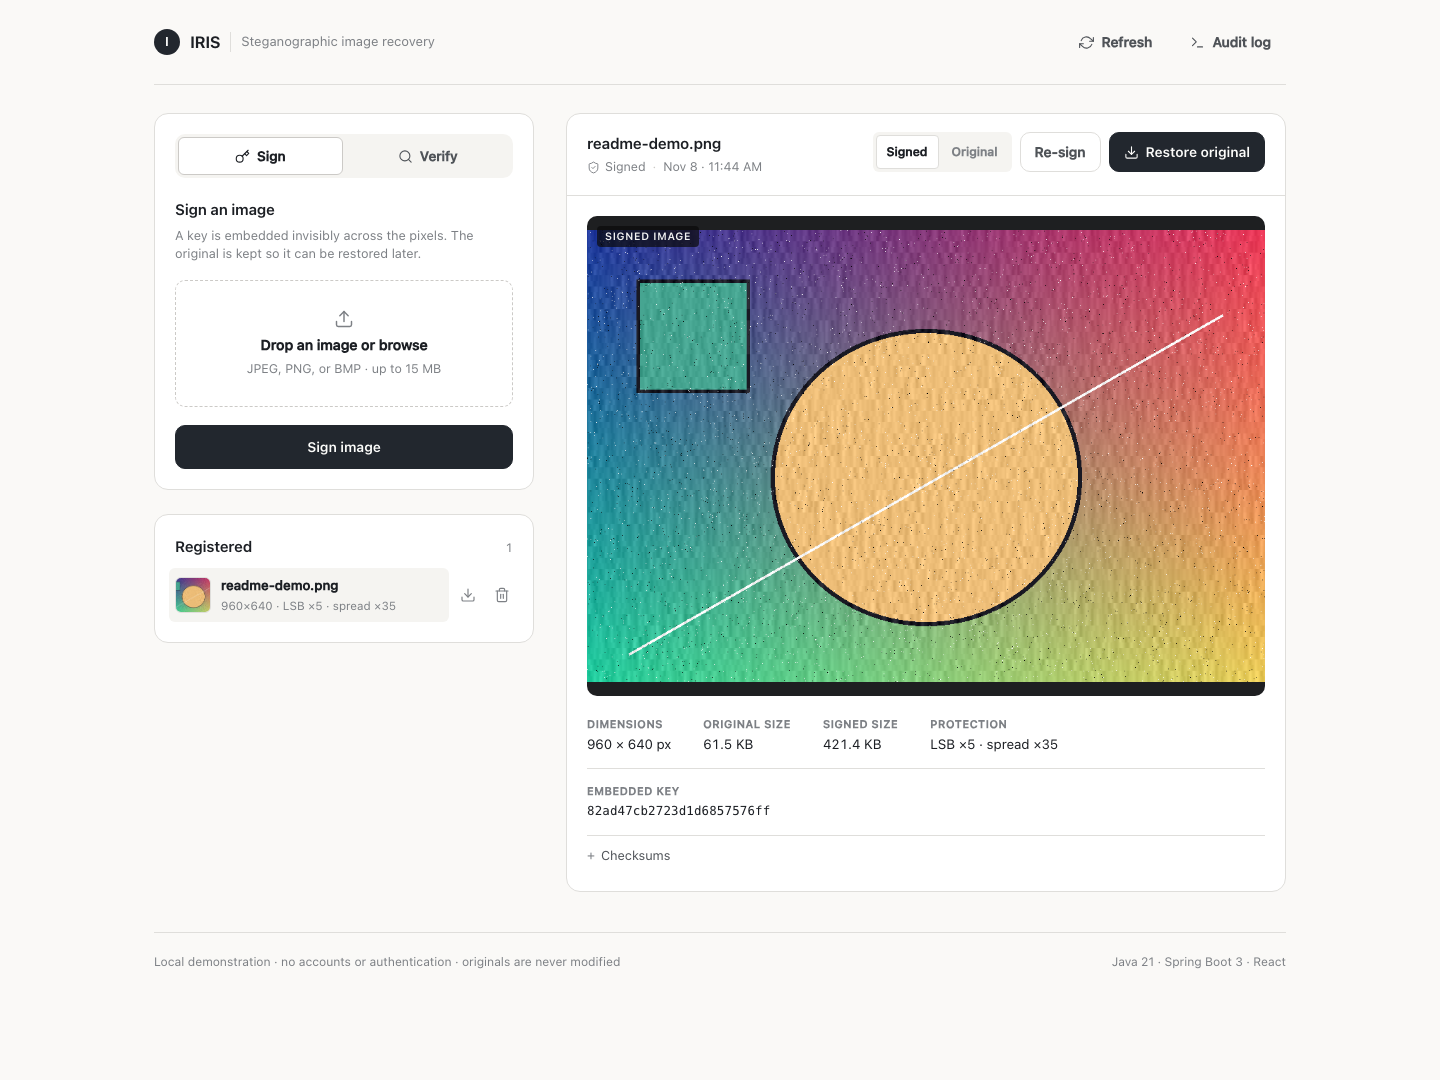
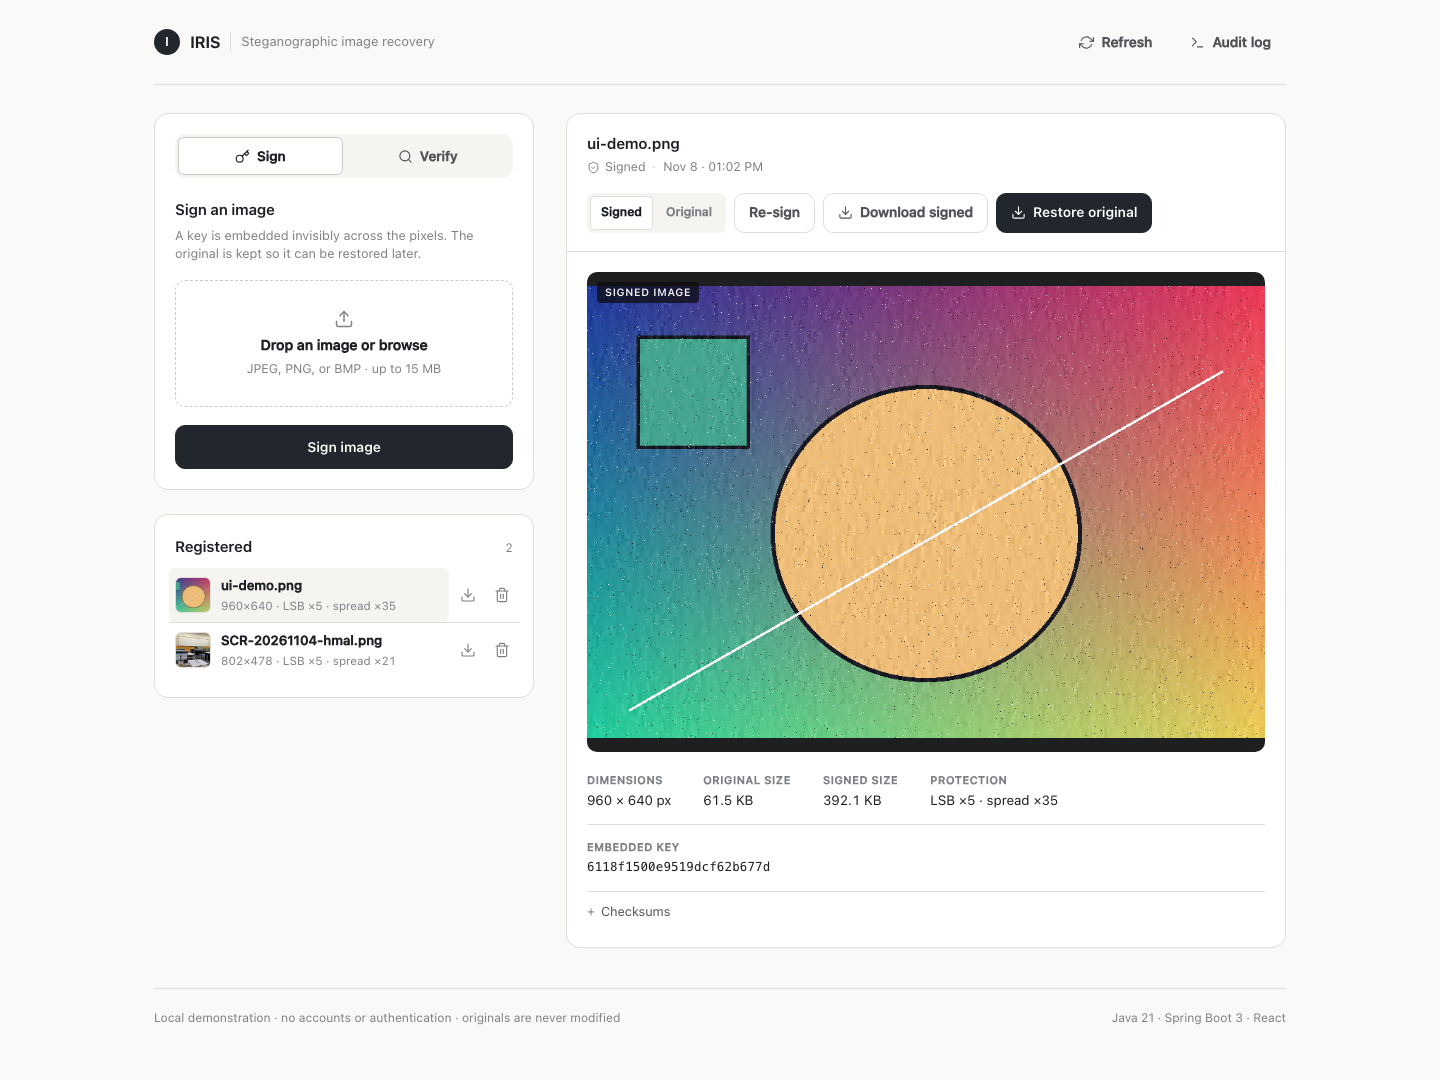
Improve signed-image UX and watermark visibility
- Add a signed-image download endpoint and UI button
- Reset the upload panel when switching between Sign and Verify
- Preserve source pixels instead of color-converting grayscale images
- Reduce V3 watermark strength and shift signal to the fine channel
- Add the signed-download API test and refresh the screenshot

diff --git a/frontend/src/components/ActionPanel.tsx b/frontend/src/components/ActionPanel.tsx
@@ -1,4 +1,4 @@
-import React, { useRef, useState } from 'react';
+import React, { useEffect, useRef, useState } from 'react';
 import { UploadIcon, AlertCircleIcon, KeyIcon, SearchIcon } from './icons';
 import './ActionPanel.css';
 
@@ -26,6 +26,19 @@ export const ActionPanel: React.FC<Props> = ({ mode, onModeChange, onSign, onVer
   const fileInputRef = useRef<HTMLInputElement>(null);
 
   const isSign = mode === 'sign';
+
+  useEffect(() => {
+    setSelectedFile(null);
+    setIsDragOver(false);
+    setErrorMsg(null);
+    setPreviewUrl(null);
+  }, [mode]);
+
+  useEffect(() => () => {
+    if (previewUrl) {
+      URL.revokeObjectURL(previewUrl);
+    }
+  }, [previewUrl]);
 
   const validateAndSetFile = (file: File) => {
     setErrorMsg(null);

diff --git a/frontend/src/components/RecordViewer.tsx b/frontend/src/components/RecordViewer.tsx
@@ -77,6 +77,11 @@ export const RecordViewer: React.FC<Props> = ({ record, onResign, isResigning })
             {isResigning ? 'Re-signing…' : 'Re-sign'}
           </button>
 
+          <a className="btn" href={record.signedDownloadUrl} download>
+            <DownloadIcon size={15} />
+            <span>Download signed</span>
+          </a>
+
           <a className="btn btn-primary" href={record.downloadUrl} download>
             <DownloadIcon size={15} />
             <span>Restore original</span>

diff --git a/frontend/src/types.ts b/frontend/src/types.ts
@@ -20,6 +20,7 @@ export interface ImageRecordDto {
   originalUrl: string;
   signedUrl: string;
   downloadUrl: string;
+  signedDownloadUrl: string;
 }
 
 export interface VerificationResponseDto {

diff --git a/backend/src/main/java/com/iris/stego/SteganographyV3.java b/backend/src/main/java/com/iris/stego/SteganographyV3.java
@@ -1,6 +1,5 @@
 package com.iris.stego;
 
-import java.awt.Graphics2D;
 import java.awt.image.BufferedImage;
 import java.util.ArrayList;
 import java.util.Arrays;
@@ -17,8 +16,8 @@ public final class SteganographyV3 {
     public static final int MIN_ROBUST_PIXELS = CODE_BITS * 8 * 8;
     private static final boolean[] CODE_SYNC = ConvolutionalCode.encode(SYNC, false);
     private static final int STRIDE = 37;
-    private static final Grid COARSE = new Grid(16, 18, 20);
-    private static final Grid FINE = new Grid(8, 6, 10);
+    private static final Grid COARSE = new Grid(16, 8, 10, 34);
+    private static final Grid FINE = new Grid(8, 10, 14, 14);
 
     private SteganographyV3() {}
     public record Extracted(byte[] token) {}
@@ -29,11 +28,7 @@ public final class SteganographyV3 {
         if (token == null || token.length != TOKEN_BYTES) {
             throw new IllegalArgumentException("Watermark token must be 12 bytes");
         }
-        BufferedImage image = new BufferedImage(source.getWidth(), source.getHeight(),
-                source.getColorModel().hasAlpha() ? BufferedImage.TYPE_INT_ARGB : BufferedImage.TYPE_INT_RGB);
-        Graphics2D graphics = image.createGraphics();
-        graphics.drawImage(source, 0, 0, null);
-        graphics.dispose();
+        BufferedImage image = copy(source);
         byte[] payload = new byte[PAYLOAD_BYTES];
         System.arraycopy(SYNC, 0, payload, 0, SYNC.length);
         System.arraycopy(token, 0, payload, SYNC.length, TOKEN_BYTES);
@@ -109,10 +104,12 @@ public final class SteganographyV3 {
         final int block;
         final double strength;
         final double maxStep;
-        Grid(int block, double strength, double maxStep) {
+        final double edgeLimit;
+        Grid(int block, double strength, double maxStep, double edgeLimit) {
             this.block = block;
             this.strength = strength;
             this.maxStep = maxStep;
+            this.edgeLimit = edgeLimit;
         }
 
         int embed(BufferedImage image, boolean[] coded) {
@@ -132,17 +129,18 @@ public final class SteganographyV3 {
                     }
                     double difference = (left - right) / (block * block / 2.0);
                     // Strong natural edges are erasures, not targets for large visible changes.
-                    if (Math.abs(difference) > strength * 2) continue;
+                    if (Math.abs(difference) > edgeLimit) continue;
                     boolean one = coded[(col + STRIDE * row) % coded.length];
                     double mean = sum / (block * block);
                     double texture = Math.sqrt(Math.max(0, squares / (block * block) - mean * mean));
-                    double adapted = 4 + (strength - 4) * Math.min(1, texture / 20);
+                    double adapted = 1.5 + (strength - 1.5) * Math.min(1, texture / 24);
                     double target = one ? adapted : -adapted;
                     if ((one && difference >= target) || (!one && difference <= target)) continue;
                     double amplitude = Math.max(-maxStep, Math.min(maxStep, (target - difference) * Math.PI / 4));
                     for (int dx = 0; dx < block; dx++) {
                         int offset = (int) Math.round(amplitude * Math.sin(2 * Math.PI * dx / block));
                         for (int dy = 0; dy < block; dy++) {
+                            if (offset == 0) continue;
                             int rgb = image.getRGB(x + dx, y + dy);
                             int r = clamp(((rgb >> 16) & 255) + offset);
                             int g = clamp(((rgb >> 8) & 255) + offset);
@@ -200,7 +198,7 @@ public final class SteganographyV3 {
             for (int row = 0; row < rows; row += stepY) {
                 for (int col = 0; col < cols; col += stepX) {
                     double difference = integral.delta(x + col * block, y + row * block, block);
-                    if (Math.abs(difference) > strength * 2.5) continue;
+                    if (Math.abs(difference) > edgeLimit) continue;
                     votes[(col + STRIDE * row) % CODE_BITS] += Math.max(-strength, Math.min(strength, difference));
                 }
             }
@@ -209,6 +207,17 @@ public final class SteganographyV3 {
     }
 
     private static int clamp(int value) { return Math.max(0, Math.min(255, value)); }
+
+    private static BufferedImage copy(BufferedImage source) {
+        int type = source.getColorModel().hasAlpha() ? BufferedImage.TYPE_INT_ARGB : BufferedImage.TYPE_INT_RGB;
+        BufferedImage copy = new BufferedImage(source.getWidth(), source.getHeight(), type);
+        for (int y = 0; y < source.getHeight(); y++) {
+            for (int x = 0; x < source.getWidth(); x++) {
+                copy.setRGB(x, y, source.getRGB(x, y));
+            }
+        }
+        return copy;
+    }
     private static double luma(int rgb) {
         return .299 * ((rgb >> 16) & 255) + .587 * ((rgb >> 8) & 255) + .114 * (rgb & 255);
     }

diff --git a/backend/src/test/java/com/iris/RecordIntegrationTest.java b/backend/src/test/java/com/iris/RecordIntegrationTest.java
@@ -23,6 +23,8 @@ import java.io.ByteArrayInputStream;
 import java.io.ByteArrayOutputStream;
 import java.util.Random;
 
+import static org.hamcrest.Matchers.containsString;
+import static org.hamcrest.Matchers.startsWith;
 import static org.junit.jupiter.api.Assertions.*;
 import static org.springframework.test.web.servlet.request.MockMvcRequestBuilders.*;
 import static org.springframework.test.web.servlet.result.MockMvcResultMatchers.*;
@@ -73,6 +75,11 @@ class RecordIntegrationTest {
 
         byte[] signed = download(record.get("signedUrl").asText());
         JsonNode verification = verify(signed, "signed.png");
+
+        mockMvc.perform(get("/api/records/" + id + "/download-signed"))
+                .andExpect(status().isOk())
+                .andExpect(header().string("Content-Type", startsWith("image/png")))
+                .andExpect(header().string("Content-Disposition", containsString("attachment")));
 
         assertTrue(verification.get("matched").asBoolean());
         assertEquals("LSB", verification.get("method").asText());

diff --git a/backend/src/main/java/com/iris/service/ImageRecordService.java b/backend/src/main/java/com/iris/service/ImageRecordService.java
@@ -156,6 +156,17 @@ public class ImageRecordService {
         return new DownloadInfo(resource, "restored_" + record.getOriginalFilename(), record.getContentType());
     }
 
+    public DownloadInfo getSignedDownloadInfo(Long id) {
+        ImageRecord record = requireRecord(id);
+        Resource resource = storageService.loadAsResource(record.getSignedStorageKey());
+        auditService.recordEvent(AuditEventType.IMAGE_DOWNLOAD, record.getId(), "Signed image downloaded",
+                record.getOriginalFilename());
+        String base = record.getOriginalFilename();
+        int dot = base.lastIndexOf('.');
+        String filename = (dot > 0 ? base.substring(0, dot) : base) + "_signed.png";
+        return new DownloadInfo(resource, filename, "image/png");
+    }
+
     public BufferedImage loadOriginalImage(ImageRecord record) {
         return ImageCodec.read(storageService.readBytes(record.getOriginalStorageKey()));
     }

diff --git a/backend/src/main/java/com/iris/controller/RecordController.java b/backend/src/main/java/com/iris/controller/RecordController.java
@@ -79,6 +79,18 @@ public class RecordController {
                 .body(download.resource());
     }
 
+    @GetMapping("/records/{id}/download-signed")
+    public ResponseEntity<Resource> downloadSigned(@PathVariable("id") Long id) {
+        ImageRecordService.DownloadInfo download = recordService.getSignedDownloadInfo(id);
+        ContentDisposition disposition = ContentDisposition.attachment()
+                .filename(download.filename(), StandardCharsets.UTF_8)
+                .build();
+        return ResponseEntity.ok()
+                .contentType(MediaType.IMAGE_PNG)
+                .headers(headers -> headers.setContentDisposition(disposition))
+                .body(download.resource());
+    }
+
     @DeleteMapping("/records/{id}")
     public ResponseEntity<Map<String, Object>> delete(@PathVariable("id") Long id) {
         recordService.delete(id);

diff --git a/backend/src/main/java/com/iris/stego/SteganographyV2.java b/backend/src/main/java/com/iris/stego/SteganographyV2.java
@@ -1,6 +1,5 @@
 package com.iris.stego;
 
-import java.awt.Graphics2D;
 import java.awt.image.BufferedImage;
 import java.util.ArrayList;
 import java.util.Comparator;
@@ -569,9 +568,11 @@ public final class SteganographyV2 {
     private static BufferedImage copy(BufferedImage source) {
         int type = source.getColorModel().hasAlpha() ? BufferedImage.TYPE_INT_ARGB : BufferedImage.TYPE_INT_RGB;
         BufferedImage target = new BufferedImage(source.getWidth(), source.getHeight(), type);
-        Graphics2D g = target.createGraphics();
-        g.drawImage(source, 0, 0, null);
-        g.dispose();
+        for (int y = 0; y < source.getHeight(); y++) {
+            for (int x = 0; x < source.getWidth(); x++) {
+                target.setRGB(x, y, source.getRGB(x, y));
+            }
+        }
         return target;
     }
 

diff --git a/backend/src/main/java/com/iris/stego/Steganography.java b/backend/src/main/java/com/iris/stego/Steganography.java
@@ -1,6 +1,5 @@
 package com.iris.stego;
 
-import java.awt.Graphics2D;
 import java.awt.image.BufferedImage;
 import java.util.ArrayList;
 import java.util.Comparator;
@@ -561,9 +560,11 @@ public final class Steganography {
     private static BufferedImage copy(BufferedImage source) {
         int type = source.getColorModel().hasAlpha() ? BufferedImage.TYPE_INT_ARGB : BufferedImage.TYPE_INT_RGB;
         BufferedImage target = new BufferedImage(source.getWidth(), source.getHeight(), type);
-        Graphics2D g = target.createGraphics();
-        g.drawImage(source, 0, 0, null);
-        g.dispose();
+        for (int y = 0; y < source.getHeight(); y++) {
+            for (int x = 0; x < source.getWidth(); x++) {
+                target.setRGB(x, y, source.getRGB(x, y));
+            }
+        }
         return target;
     }
 

diff --git a/backend/src/main/java/com/iris/dto/ImageRecordDto.java b/backend/src/main/java/com/iris/dto/ImageRecordDto.java
@@ -23,7 +23,8 @@ public record ImageRecordDto(
         Instant createdAt,
         String originalUrl,
         String signedUrl,
-        String downloadUrl
+        String downloadUrl,
+        String signedDownloadUrl
 ) {
     public static ImageRecordDto fromEntity(ImageRecord record) {
         return new ImageRecordDto(
@@ -45,7 +46,8 @@ public record ImageRecordDto(
                 record.getCreatedAt(),
                 "/api/records/" + record.getId() + "/original",
                 "/api/records/" + record.getId() + "/signed",
-                "/api/records/" + record.getId() + "/download"
+                "/api/records/" + record.getId() + "/download",
+                "/api/records/" + record.getId() + "/download-signed"
         );
     }
 }

diff --git a/README.md b/README.md
@@ -207,6 +207,7 @@ curl -F "file=@tampered.jpg" http://localhost:8080/api/verify
 | `GET` | `/api/records/{id}/original` | Stream the untouched original |
 | `GET` | `/api/records/{id}/signed` | Stream the signed image |
 | `GET` | `/api/records/{id}/download` | Download the original as `restored_<name>` |
+| `GET` | `/api/records/{id}/download-signed` | Download the signed image as `<name>_signed.png` |
 | `POST` | `/api/records/{id}/resign` | Re-embed the original with the current watermark |
 | `DELETE` | `/api/records/{id}` | Delete the record, files, and linked verifications |
 | `POST` | `/api/verify` | Verify an upload and recover its record |
